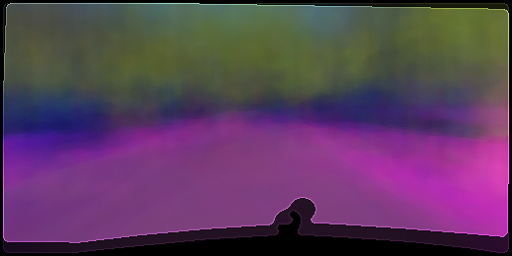
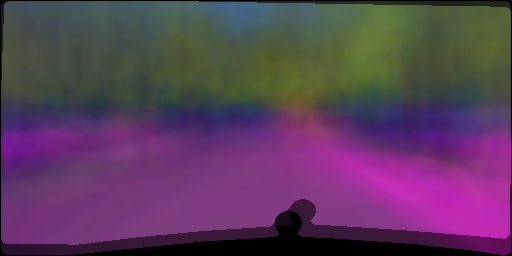
test

Changed region(s): [[0.0, 0.0, 1.0, 1.0]]

diff --git a/generate_map.py b/generate_map.py
@@ -2,7 +2,6 @@ import torch
 from torch import nn
 import torch.nn.functional as F
 from torch.autograd import Variable
-from torchvision.utils import save_image
 from torchvision import transforms
 import os
 from skimage import io
@@ -40,10 +39,7 @@ def generate_encoding(avg):
 def post_processing(img_name, out_name):
     img = cv2.imread(img_name)
     blur = cv2.medianBlur(img, 9)
-    kernel = np.array([[0,-1,0], [-1,5,-1], [0,-1,0]])
-    sharp = cv2.filter2D(blur, -1, kernel)
-    resized = cv2.resize(sharp, (512, 256))
-    cv2.imwrite(out_name, resized)
+    cv2.imwrite(out_name, blur)
     return blur
 
 class VAE(nn.Module):
@@ -105,5 +101,5 @@ if __name__ == '__main__':
         # form image
         img = to_img(map.cpu().data)
         orig_img_name = "generated_maps/orig_map{}.png".format(i)
-        save_image(img, orig_img_name)
+        io.imsave(orig_img_name, img[0].numpy().transpose((1, 2, 0)))
         post_processing(orig_img_name, "generated_maps/gen_map{}.png".format(i))
